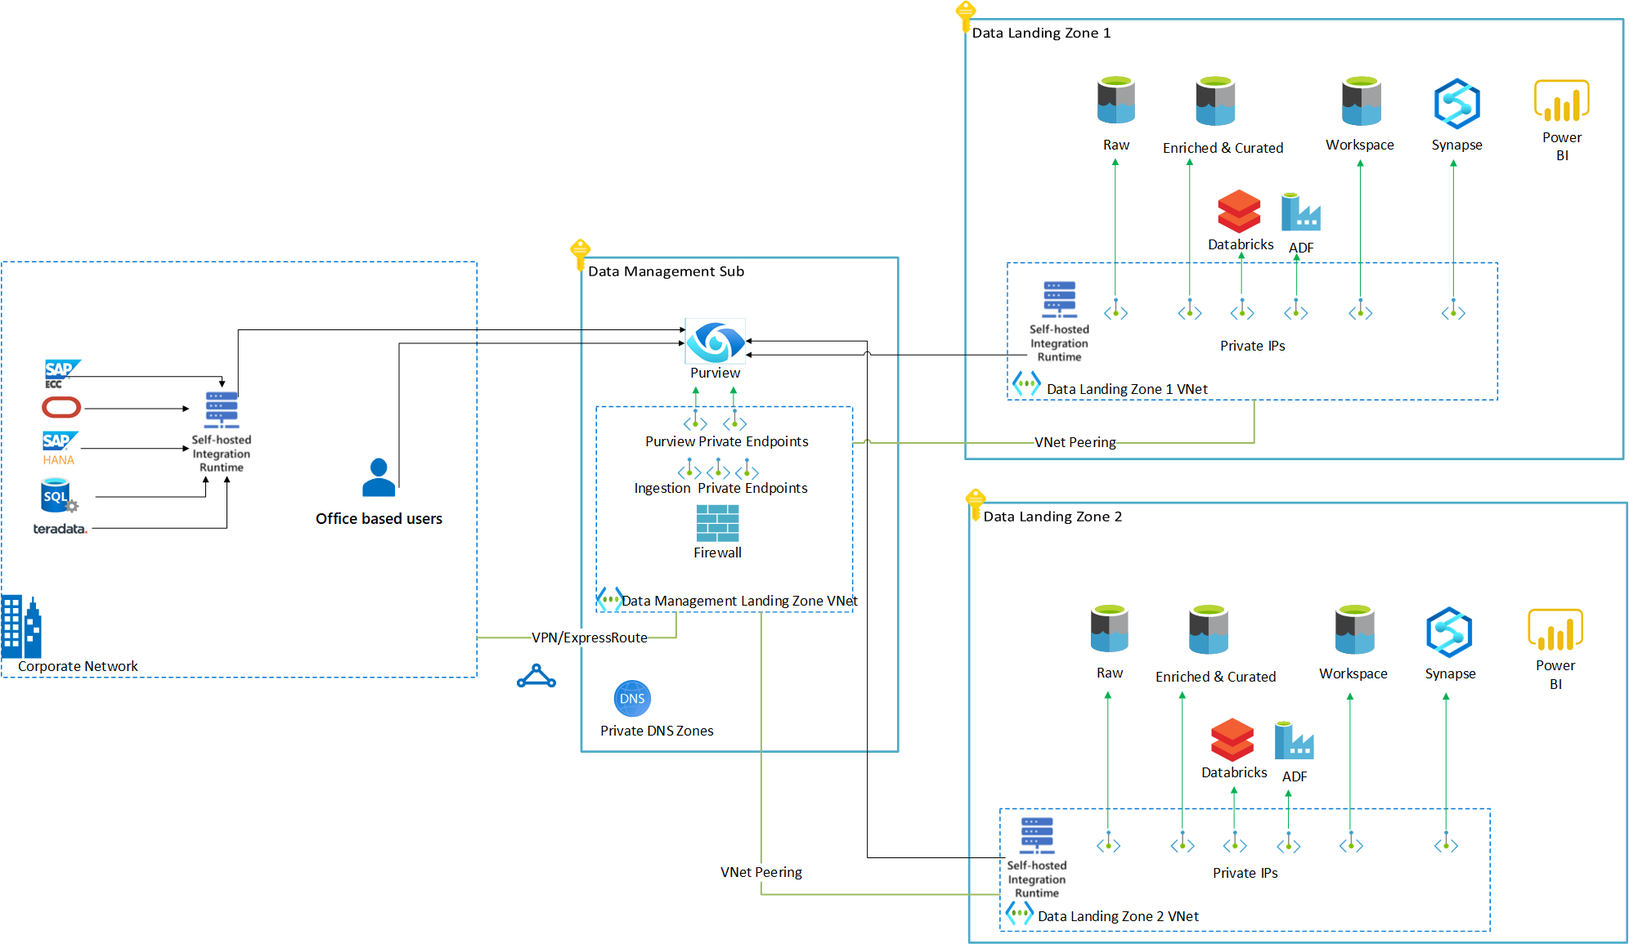
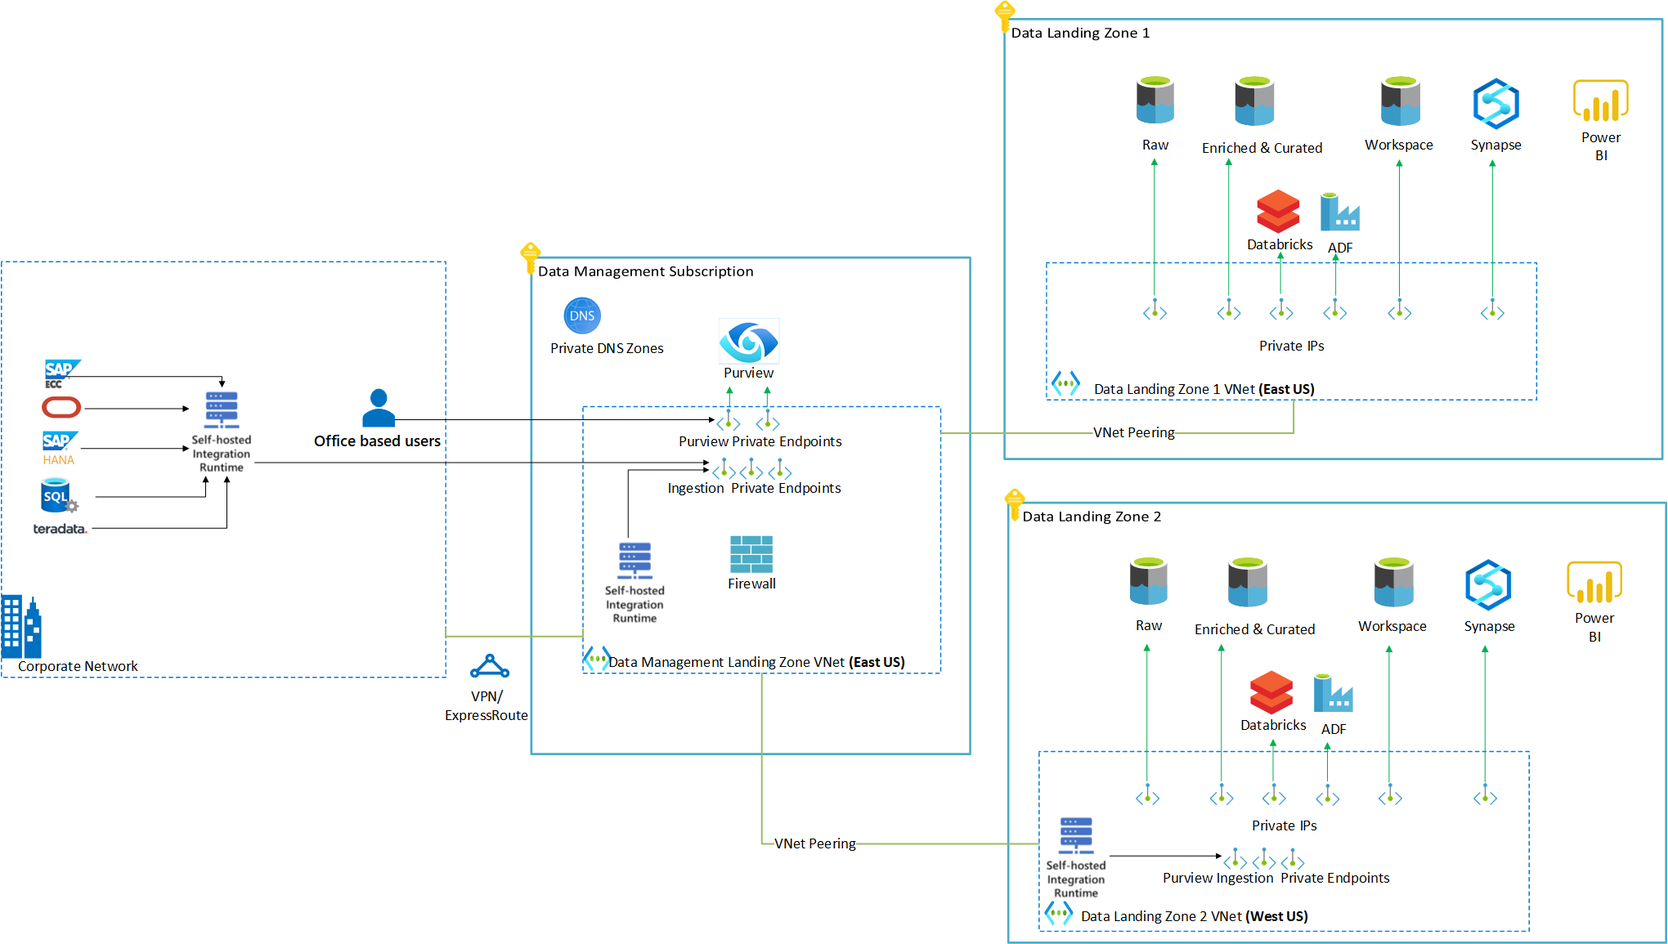
updated purview docs

diff --git a/docs/scenarios/data-management/best-practices/purview-deployment.md b/docs/scenarios/data-management/best-practices/purview-deployment.md
@@ -1,15 +1,15 @@
 ---
-title: Azure Purview deployment best practices for data management and analytics 
+title: Azure Purview deployment best practices for data management and analytics enterprise-scale scenario
 description: Azure Purview best practices for account setup, networking, name resolution, authentication of data sources, roles, and access control.
 author: zeinam
 ms.author: zeinam
-ms.date: 05/21/2021
+ms.date: 09/13/2021
 ms.topic: conceptual
 ms.service: cloud-adoption-framework
 ms.subservice: ready
 ---
 
-# Azure Purview deployment best practices for data management and analytics
+# Azure Purview deployment best practices for data management and analytics enterprise-scale scenario
 
 The [data management landing zone](../architectures/data-management-landing-zone.md) is responsible for the governance of the enterprise-scale for analytics and AI platform. It relies on [Azure Purview](https://azure.microsoft.com/services/purview/) to provide data management capabilities:
 
@@ -21,6 +21,7 @@ Azure Purview is a unified data governance service. It helps organizations manag
 
 > [!TIP]
 > We recommend using third-party tools of your choice to integrate the remaining capabilities of the [data management landing zone](../architectures/data-management-landing-zone.md) with Azure that are currently not supported by Azure Purview.
+>
 > [!NOTE]
 > This guidance in this section explains configurations specific to enterprise-scale for analytics and AI. It's a collection of Azure best practices to enhance your data governance using Azure Purview. The guidance compliments the official [Azure Purview documentation](/azure/purview/).
 
@@ -47,29 +48,33 @@ Before deployment, review the following requirements inside your data management
 
 ## Networking and name resolution
 
-The Azure Purview account is deployed inside the Azure virtual network (VNet) within the data management landing zone.
+Enterprise-scale for analytics and AI uses [Azure Private Endpoint](/azure/private-link/private-endpoint-overview) to enable secure access to the catalog powered by [Azure Private Link](/azure/private-link/private-link-overview). The private endpoint uses IP addresses from the VNet address space for your Azure Purview account. Network traffic between the clients on the VNet and the Azure Purview account traverses over the VNet and a Private Link on the Microsoft backbone network. The VNet and Private Link eliminate exposure from the public internet. To enable network isolation for end-to-end scan scenarios, more private endpoints are deployed. The private endpoints allow data sources in Azure and on-premises sources to be connected through Azure Private Link.
 
 ### Azure Private Endpoint deployment
 
-:::image type="content" source="../images/purview-private-endpoint-2.png" alt-text="Diagram of Azure Purview networking." lightbox="../images/purview-private-endpoint-2.png":::
+The Azure Purview account is deployed inside the Azure virtual network (VNet) within the data management landing zone with several private endpoints:
 
-Enterprise-scale for analytics and AI uses [Azure Private Endpoint](/azure/private-link/private-endpoint-overview) to enable secure access to the catalog powered by [Azure Private Link](/azure/private-link/private-link-overview). The private endpoint uses IP addresses from the VNet address space for your Azure Purview account. Network traffic between the clients on the VNet and the Azure Purview account traverses over the VNet and a Private Link on the Microsoft backbone network. The VNet and Private Link eliminate exposure from the public internet. To enable network isolation for end-to-end scan scenarios, more private endpoints are deployed. The private endpoints allow data sources in Azure and on-premises sources to be connected through Azure Private Link.
+- **Account:** Private Endpoint is used to allow only client calls to Azure Purview that originate from within the private network and it is required as a prerequisite for _portal_ Private Endpoint.
+  
+- **Portal:** Private Endpoint is aimed to provide private connectivity to Azure Purview studio.
+
+- **Ingestion** private endpoints to scan Azure IaaS and PaaS data sources inside Azure virtual networks and on-premises data sources through a private connection. This method ensures network isolation for your metadata flowing from the data sources to Azure Purview Data Map.
+
+:::image type="content" source="../images/purview-private-endpoint-2.png" alt-text="Diagram of Azure Purview Networking." lightbox="../images/purview-private-endpoint-2.png":::
 
 > [!IMPORTANT]
-> To successfully scan data sources in Azure Purview, a self-hosted integration runtime must be deployed inside the private network either in the data management landing zone or the data landing zone.
+> To successfully scan data sources in Azure Purview, a self-hosted integration runtime must be deployed inside the same Azure virtual network where Purview ingestion private endpoints are deployed, which can be inside the data management landing zone or any data landing zones.
 
-For more information, see [Enterprise-scale for analytics and AI networking](../eslz-network-topology-and-connectivity.md).
+For more information about Data management landing zone networking, see [Enterprise-scale for analytics and AI networking](../eslz-network-topology-and-connectivity.md).
+
+For more information about Azure Purview private endpoints, see [Use private endpoints for your Azure Purview account](/azure/purview/catalog-private-link.md).
 
 #### Private Endpoint for account and portal
 
-Azure Purview is deployed with two private endpoints:
+To manage the data estate using Azure Purview and to connect to Azure Purview studio, you must use private connectivity. Public access is restricted to the Azure Purview account that is deployed inside the data management landing zone to add more security.
+_Account_ and _portal_ private endpoints are deployed to provide private connectivity to your Purview account and access to Purview Studio .
 
-- **Account:** Private Endpoint is used for securing APIs and it's required as a prerequisite for **portal** Private Endpoint.
-- **Portal:** Private Endpoint is aimed to provide private connectivity to Azure Purview studio.
-
-To manage the data estate using Azure Purview and to connect to Azure Purview studio, you must use private connectivity. Public access is restricted to the Azure Purview account that's deployed inside the data management landing zone to add more security.
-
-### Access to Azure Purview studio
+#### Access to Azure Purview studio
 
 To maintain the use of Azure Purview portal through private connectivity, we recommend to [deny public network access](/azure/purview/catalog-private-link#firewalls-to-restrict-public-access) in Azure Purview settings. To connect to Azure Purview studio, a *jump machine or jump box* that's deployed inside your network is needed. You can use a machine from the hybrid network or as a virtual machine inside the data management landing zone. A jump machine is a hardened remote access server, that commonly uses Microsoft's Remote Desktop Services or Secure Shell (SSH) software. Jump machines act as a stepping point for administrators who access critical systems with all administrative actions done from the dedicated host.
 
@@ -80,6 +85,8 @@ Use any of these options to manage your data using Azure Purview through Azure P
   Review Cloud Adoption Framework networking for more information [network topology and connectivity overview](../../../ready/enterprise-scale/network-topology-and-connectivity.md)
 
 - **Option 2:** if hybrid connectivity isn't available in your organization, [deploy a virtual machine](/azure/virtual-machines/windows/quick-create-portal) inside the data management landing zone. [Deploy Azure Bastion](/azure/bastion/quickstart-host-portal) to connect to Azure Purview using a secure connection.
+
+For more information see, [Connecting to Environments Privately](/azure/data-management-zone/docs/guidance/EnterpriseScaleAnalytics-ConnectToEnvironmentsPrivately.md).
 
 #### Private endpoints for ingestion
 
@@ -96,7 +103,7 @@ DNS resolution for private endpoints should be handled through central Azure Pri
 - `privatelink.queue.core.windows.net`
 - `privatelink.servicebus.windows.net`
 
-:::image type="content" source="../images/purview-name-resolution.png" alt-text="Diagram of high-level name-resolution architecture." lightbox="../images/purview-name-resolution.png":::
+:::image type="content" source="../images/purview-name-resolution.png" alt-text="Diagram of high Level name resolution architecture." lightbox="../images/purview-name-resolution.png":::
 
 If you have a hybrid cloud, and cross-premises name resolution is required, it's important to configure on-premises DNS servers correctly to forward the appropriate requests to the custom DNS server in Azure.
 
@@ -128,12 +135,16 @@ Consider assigning the *Reader* role to the Azure Purview managed identity in ea
 
 ### Scan data sources
 
+Before running any new scans, make sure you have completed the following requirements: 
+
 #### Deploy and register self-hosted integration runtimes
 
 Deploy and register [self-hosted integration runtime (IR)](/azure/purview/manage-integration-runtimes) VMs for each data landing zone. Self-hosted IRs are required to scan data sources such as Azure SQL Database or any VM-based data sources. These data sources might be on-premises or in each of the data landing zones. A self-hosted IR can run copy activities between a cloud data store and a data store in a private network. It also can dispatch transform activities against compute resources in an on-premises network or an Azure virtual network. The installation of a self-hosted IR needs an on-premises machine or a virtual machine inside a private network.
 
 > [!TIP]
-> We recommend that you use a dedicated machine to host the IR. The machine should be separate from the server hosting the data store. Also, it's highly recommended to plan for at least two self-hosted IR VMs in each data landing zone or on-premises environment.
+> We recommend that you use a dedicated machine to host the IR. The machine should be separate from the server hosting the data store. Also, it is highly recommended to plan for at least two self-hosted IR VMs in each data landing zone or on-premises environment. 
+> 
+> To scan on-premises data sources, the Self-hosted IRs can be deployed inside your on-premises network, however, to scan data sources located in Azure, the Self-hosted IRs must be deployed in the same VNet as Azure Purview ingestion private endpoints. It is recommended to deploy new ingestion private endpoints and new Self-hosted IRs per region where data sources are located.
 
 You might want to host an increasing concurrent workload. Or you might want to achieve higher performance in your present workload level. You can enhance the scale of processing by using one of these approaches:
 
@@ -144,14 +155,15 @@ You might want to host an increasing concurrent workload. Or you might want to a
 
 To provide access to Azure Purview at data plane and to data sources, there are multiple options to set up the authentication:
 
-- Option 1: managed identity
-- Option 2: account key or passwords stored in Azure Key Vault as a secret
-- Option 3: service principal stored in Azure Key Vault as a secret
+- Option 1: Managed identity
+- Option 2: Account key or passwords stored in Azure Key Vault as a secret
+- Option 3: Service principal stored in Azure Key Vault as a secret
 
 > [!IMPORTANT]
-> To scan data sources through Azure Private Link in Azure Purview, you must deploy a self-hosted integration runtime and use **key vault** or **service principal** from the options for authentication to data sources.
+> To scan data sources through Azure Private Link in Azure Purview, you must deploy a self-hosted integration runtime and use **Account key/ SQL Authentication** or **service principal** from the options for authentication to data sources.
+
 > [!TIP]
-> When a data source can't use Azure Private Link, we recommend to use Azure Purview managed identity to scan data sources.
+> When a data source can't use Azure Private Link, we recommend to use Azure Purview managed identity to scan data sources. In this case, you have to allow Public access on your Purview account firewall settings.
 
 ### Store secrets inside Azure Key Vault
 
@@ -179,33 +191,32 @@ Before creating any credentials in Azure Purview, your Azure Purview account mus
 
 ## Azure Purview roles and access control
 
-Azure Purview has several built-in RBAC roles such as *Purview Data Reader*, *Purview Data Curator*, and *Purview Data Source Administrator*, to manage the data plane, which can be combined to provide more privileges. For example, the *Purview Data Reader* role is targeted for roles such as data officers, data stewards, and chief security officers who require read-only access to the data estate. The data estate might include classifications, lineage through search options, and reports available in Azure Purview.
+Azure Purview has several built-in RBAC roles such as *Data reader*, *Data curator*, _Collection admin_ and *Data Source admin*, to manage the data plane, which can be combined to provide more privileges. For example, the *Data reader* role is targeted for roles such as data officers, data stewards, and chief security officers who require read-only access to the data estate. The data estate might include classifications, lineage through search options, and reports available in Azure Purview.
 
-:::image type="content" source="../images/purview-roles.png" alt-text="Diagram of Azure Purview roles." lightbox="../images/purview-roles-large.png":::
+:::image type="content" source="../images/purview-roles-new.png" alt-text="Diagram of Azure Purview roles." lightbox="../images/purview-roles-new.png":::
+
+Once the data management landing zone deployment is complete, use the least privilege model to provide access to view or manage metadata in Azure Purview.
+
+> [!IMPORTANT]
+> Azure Purview data plane roles must be managed inside Purview Studio or using the API directly.
 
 For more information about Azure Purview catalog roles, see [Role-based access control in Azure Purview's data plane](/azure/purview/catalog-permissions)
-
-Once the data management landing zone deployment is complete, use the least privilege model to provide access to view and manage data in Azure Purview. Assign roles to Azure Purview resource using [Azure role-based access control (RBAC)](/azure/role-based-access-control/).
 
 Review the following list of personas involved in an enterprise-scale for analytics and AI deployment. Assign them the relevant Azure Purview roles so they can contribute in the success of the program:
 
 | Persona | Role |Recommended Azure Purview role  |
 |-|-|-|
-|Product owners| Product owners use Azure to transform your solutions, bring agility to the business, and optimize business processes.|Purview Data Reader |
-| Solution architects | Define solutions to drive across the boundaries of the enterprise business network. Learn how to deal with diagnosis, analysis, design, deployment, and integration of Azure services. |Purview Data Source Administrator + data curator    |
+|Product owners| Product owners use Azure to transform your solutions, bring agility to the business, and optimize business processes.| Data reader |
+| Solution architects | Define solutions to drive across the boundaries of the enterprise business network. Learn how to deal with diagnosis, analysis, design, deployment, and integration of Azure services. | <ul><li>Data source admin</li><li>Data curator</li></ul>|
 |Developer and DevOps engineers|Design, build, deploy, test, and maintain continuous integration and delivery process with Azure DevOps or GitHub.|Not applicable  |
-| Security engineers | Enable your teams to design and implement a secure infrastructure on Azure by using best practices. |Purview Data Reader  |
+| Security engineers | Enable your teams to design and implement a secure infrastructure on Azure by using best practices. |<ul><li>Collection admin</li><li>Data reader</li></ul>  |
 | Technical and business managers |Build an overall understanding of Azure services. Control your cloud costs and optimize your operations and the agility of your team.|Not applicable |
-|Decision makers and business users|Use Azure to access actionable insight, expecting it to be delivered in most relevant form. Use AI embedded in existing solutions to optimize business processes.|Purview Data Reader   |
-| Data managers | Responsible for provisioning and managing access to data assets. |Purview Data Reader or Purview Data Curator |
-|Data analysts and performance analysts |Use Azure to discover and share new insights from existing data assets or *ad hoc* data. Create one-click AI transformations, consume prebuilt models, and easily generate machine learning models.|Purview Data Source Administrator and data reader   |
-|Data engineers | Use Azure to build, integrate, and manage data and analytics products. Create AI enabled applications and solutions when applicable.|Purview Data Source Administrator and data curator|
-|Citizen data scientists |Create machine learning models via powerful visual, drag-and-drop, no-code tools where no coding is necessary |Purview Data Source Administrator and data curator |
-| Data scientists | Use your preferred tools and machine learning frameworks to build scalable data science solutions. Accelerate end-to-end machine learning life cycle.|Purview Data Source Administrator and data curator |
-| Machine learning engineers | Enable right processes and infrastructure for easy model deployment and model management. |Purview Data Source Administrator and data curator    |
+|Decision makers and business users|Use Azure to access actionable insight, expecting it to be delivered in most relevant form. Use AI embedded in existing solutions to optimize business processes.| Data reader   |
+| Data managers | Responsible for provisioning and managing access to data assets. | Data reader or Data curator |
+|Data analysts and performance analysts |Use Azure to discover and share new insights from existing data assets or *ad hoc* data. Create one-click AI transformations, consume prebuilt models, and easily generate machine learning models.|<ul><li>Data source admin</li><li>Data reader</li></ul>|
+|Data engineers | Use Azure to build, integrate, and manage data and analytics products. Create AI enabled applications and solutions when applicable.|<ul><li>Data source admin</li><li>Data curator</li></ul>|
+|Citizen data scientists |Create machine learning models via powerful visual, drag-and-drop, no-code tools where no coding is necessary |<ul><li>Data source admin</li><li>Data curator</li></ul>|
+| Data scientists | Use your preferred tools and machine learning frameworks to build scalable data science solutions. Accelerate end-to-end machine learning lifecycle.|<ul><li>Data source admin</li><li>Data curator</li></ul> |
+| Machine learning engineers | Enable right processes and infrastructure for easy model deployment and model management. |<ul><li>Data source admin</li><li>Data curator</li></ul> |
 
 For more information about data personas, see [Personas and teams](../organize-persona-and-teams.md#personas).
-
-## Next steps
-
-[The ingest process with enterprise-scale for analytics and AI in Azure](./data-ingestion.md)

diff --git a/docs/scenarios/data-management/best-practices/purview-checklist.md b/docs/scenarios/data-management/best-practices/purview-checklist.md
@@ -1,17 +1,17 @@
 ---
-title: Azure Purview readiness checklist for data management and analytics 
-description: Learn about the Azure Purview readiness checklist for the data management and analytics enterprise-scale scenario.
+title: Azure Purview readiness checklist for the data management and analytics enterprise-scale scenario
+description: Learn about the enterprise-scale for analytics and AI Azure Purview readiness checklist
 author: zeinam
 ms.author: zeinam
-ms.date: 05/21/2021
+ms.date: 09/13/2021
 ms.topic: conceptual
 ms.service: cloud-adoption-framework
 ms.subservice: ready
 ---
 
-# Azure Purview readiness checklist for data management and analytics
+# Azure Purview readiness checklist for data management and analytics enterprise-scale scenario
 
-During your data governance journey with Azure Purview and enterprise-scale for analytics and AI, you'll find there are multiple stages in the adoption life cycle. A well-planned deployment of **Azure Purview** in the [data management landing zone](../architectures/data-management-landing-zone.md) can provide the following benefits:
+During your data governance journey with Azure Purview and enterprise-scale for analytics and AI, you'll find there are multiple stages in the adoption lifecycle. A well-planned deployment of **Azure Purview** in the [data management landing zone](../architectures/data-management-landing-zone.md) can provide the following benefits:
 
 - Unified data discovery across the entire organization  
 - Improved analytic collaboration
@@ -41,11 +41,13 @@ The **Azure Purview readiness checklist** provides high-level guidance that can 
 
     |Role  |Description  |
     |---------|---------|
-    |Data curators     |Manage classifications and glossary terms         |
-    |Data readers     |Requires read-only access for search and insights reports         |
-    |Data source administrators and curators     |Register and scan data sources, and manage catalog         |
-    |Data source administrators and readers     |Register and scan data sources         |
+    |Data source admins  | Register and scan data sources. Manage credentials, runtimes and external connections |
+    |Collection admins | Manage collections and access control |
+    |Data curators     |Search and browse assets, manage classifications and glossary terms         |
+    |Data readers     |Have read-only access to search, browse, classifications and insights reports         |
 
+  For more information related to Purview roles, see [Access control in Azure Purview](https://docs.microsoft.com/azure/purview/catalog-permissions#roles)
+  
 - Consider the following supporting roles for building an end-to-end data governance solution using Azure Purview:
 
     |Role  |Description  |
@@ -57,7 +59,7 @@ The **Azure Purview readiness checklist** provides high-level guidance that can 
     |Microsoft 365 administrators     |Microsoft Information Protection in Microsoft 365 if Microsoft 365 sensitivity labels will be used         |
     |Data source owners     |Mapped to roles in Azure Purview         |
 
-- Define whether there's an existing enterprise-scale for analytics and AI [data management landing zone](../architectures/data-management-landing-zone.md) in the environment or if there's a need to deploy a *new* data management landing zone. The data management landing zone is a centralized subscription to deploy services such as Azure Purview.
+- Define whether there's an existing enterprise-scale for analytics and AI [data management landing zone](../architectures/data-management-landing-zone.md) in the environment or if there is a need to deploy a *new* data management landing zone. The data management landing zone is a centralized subscription to deploy services such as Azure Purview.
 
 - Manage budgets, costs, and licensing.
   - Understand how the Azure Purview billing model works, and define how to control costs. Microsoft offers Azure Purview in a [pay-as-you-go model](https://aka.ms/purviewpricing).
@@ -95,7 +97,7 @@ The **Azure Purview readiness checklist** provides high-level guidance that can 
 
 - Create autolabeling rules in Microsoft 365.
 
-- Grant *Data Reader* or *Data Curator* access in Azure Purview to data governance and security teams in the organization.
+- Grant Purview roles in Azure Purview to data governance and security teams in the organization to corresponding collections.
 
 - Do an initial security review.
 
@@ -136,12 +138,13 @@ The **Azure Purview readiness checklist** provides high-level guidance that can 
 ## Phase 4: Onboard more data landing zones
 
 - Deploy more data landing zones as needed.
+
 - Adjust Azure Purview automatic scan rules.
+
 - Onboard more data sources into data landing zones.
+
 - Optimize glossary terms.
+
 - Optimize classifications rules.
+
 - Use Azure RBAC model to manage access to metadata and optimize the Azure Purview access model.
-
-## Next steps
-
-[Azure Purview deployment best practices for data management and analytics](./purview-deployment.md)
